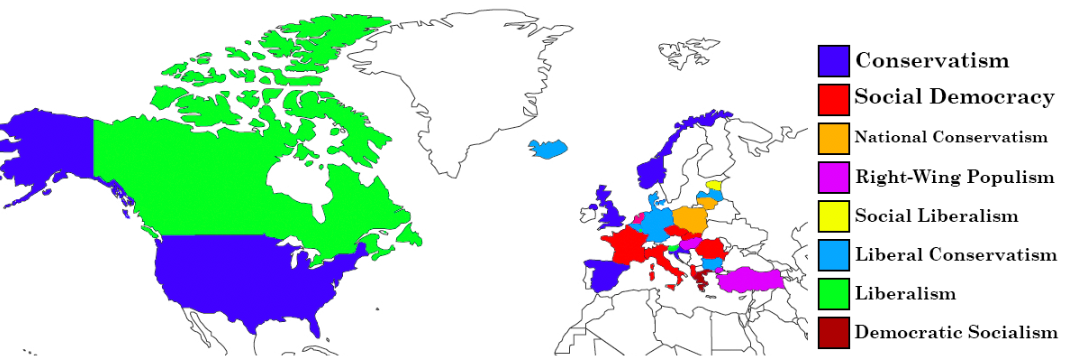
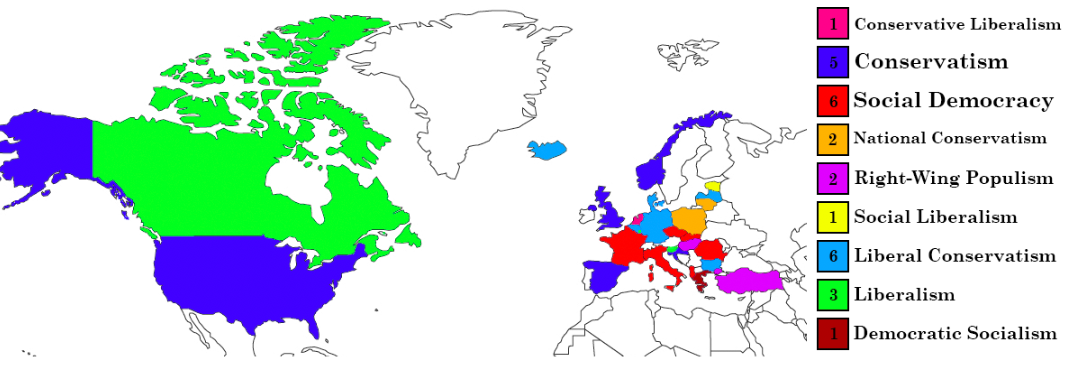
commit - 1.5.4
- map fixes (added number of countries in the legend boxes)
- too OBOR article off of front page (featured articles section)
- beginning rework of new front page (with boxes, etc…)

diff --git a/index2.html b/index2.html
@@ -1,43 +1,3 @@
 <html>
 <title>
-  PolyJournal
-</title>
-<link rel="stylesheet" type="text/css" href="style.css">
-<body>
-  <center><div class="page_title"><a href="index.html">PolyJournal</a></div></center>
-  <br />
-  <br />
-  <center><div class="menubar">
-    <a href="articles.html">Articles</a>
-    <a href="writers.html">Writers</a>
-    <a href="contact.html">Contact</a>
-  </div></center>
-  <br />
-  <br />
-  <center><div class="featured_article_container">Featured Articles</div></center>
-  <br />
-  <center><div class="article_container">
-    <center><div class="featured_article_title">We Need More Leaders like Stefan Lofven</div></center>
-    <br />
-    <center><iframe width="560" height="315" src="https://www.youtube.com/embed/XRiE0ib-sjM" frameborder="0" allowfullscreen></iframe></center>
-  </div></center>
-  <br />
-  <center><div class="featured_article_body">This is a great talk with Swedish Prime Minister and leader of the Social Democrats Stefan Lofven. He talks about the Nordic Model and Swedish politics and government. His talk highlights the need for serious political change and the importance of Social Democractic Principles, especially with the election of Donald Trump in the US and far-right parties in Europe.</div></center>
-  <br />
-  <br />
-  <center><div class="featured_article_title">Voter Turnout x Party Victory</div></center>
-  <br />
-  <center><div class="featured_article_body">The presidential race definitely shows that higher turnout generally leads to a Democratic victory. A big spike is the election of 1992 with the victory of Bill Clinton and Al Gore. But even though Clinton and Gore were reelected the next election, they were reelected with a much lower voter turnout showing just how volatile turnout can be. The graph also exposes how voter turnout has fallen since the 1960s and early 1970s. <a href="/polyjournal.github.io/articles/2017/voter_turnout_x_party_victory/voter_turnout_x_party_victory.html ">Read more</a></div></center>
-  <br />
-  <center><img src="/polyjournal.github.io/articles/2017/voter_turnout_x_party_victory/president_numbers.png"></img></center>
-  <br />
-  <br />
-  <center><div class="featured_article_title">China’s ‘One Belt, One Road’ Project is Genius</div></center>
-  <br />
-  <center><div class="featured_article_body">The news headlines are dominated by hard power. Whether it is American airstrikes against ISIS in Iraq and Syria, NATO buildup on the Russian border, or bombings throughout the world. We live in a time when soft power is ignored, perhaps forgotten, under the pressing weight of other violence and political instability. This may be why China’s One Belt, One Road (OBOR) initiative is so smart. <a href="/polyjournal.github.io/articles/2017/chinas_one_belt_one_road_is_genius/chinas_one_belt_one_road_is_genius.html">Read more</a></div></center>
-  <br />
-  <br />
-  <br />
-  <br />
-</body>
-</html>
+  

diff --git a/index.html b/index.html
@@ -37,11 +37,6 @@
   <center><img src="/polyjournal.github.io/articles/2017/voter_turnout_x_party_victory/president_numbers.png"></img></center>
   <br />
   <br />
-  <center><div class="featured_article_title">China’s ‘One Belt, One Road’ Project is Genius</div></center>
-  <br />
-  <center><div class="featured_article_body">The news headlines are dominated by hard power. Whether it is American airstrikes against ISIS in Iraq and Syria, NATO buildup on the Russian border, or bombings throughout the world. We live in a time when soft power is ignored, perhaps forgotten, under the pressing weight of other violence and political instability. This may be why China’s One Belt, One Road (OBOR) initiative is so smart. <a href="/polyjournal.github.io/articles/2017/chinas_one_belt_one_road_is_genius/chinas_one_belt_one_road_is_genius.html">Read more</a></div></center>
-  <br />
-  <br />
   <br />
   <br />
 </body>
